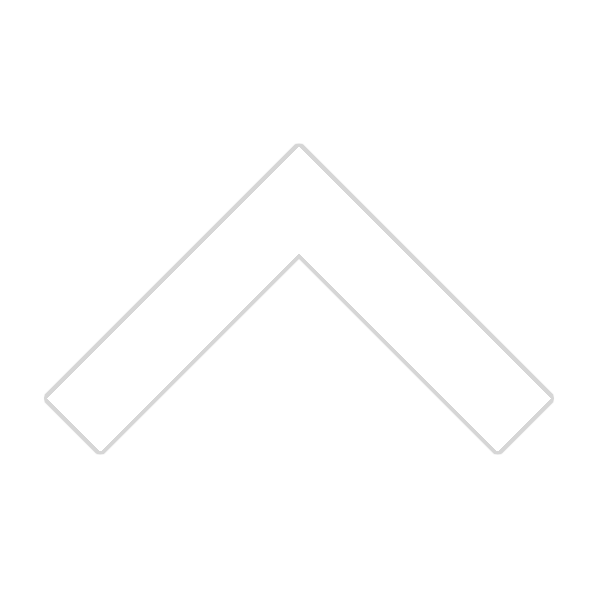
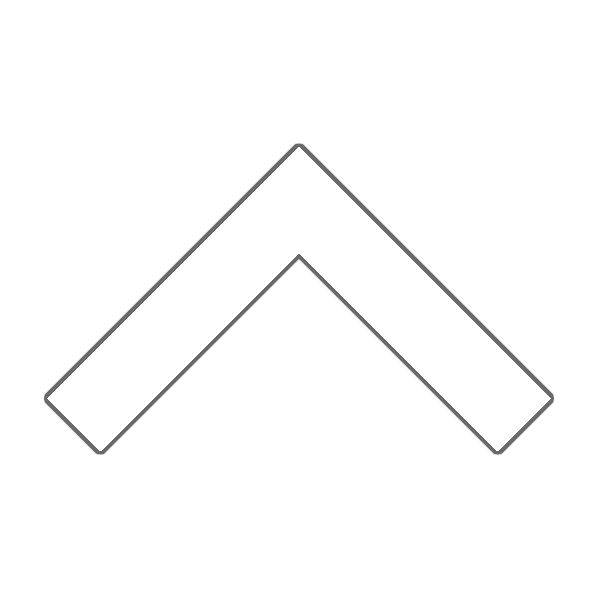
proper contrast for disabled upvote/downvote buttons

diff --git a/imports/ui/templates/components/decision/agora/thread/thread.js b/imports/ui/templates/components/decision/agora/thread/thread.js
@@ -54,13 +54,16 @@ function vote(event, comment, quantity) {
   if (!Meteor.user()) {
     displayLogin(event, document.getElementById('loggedUser'));
   } else if (comment.id !== voteEventId) {
-    voteEventId = comment.id;
-    if (comment.userVoted === false) {
-      voteComment(
-        Session.get('contract')._id,
-        comment.id,
-        quantity
-      );
+    if ((quantity > 0 && this.userUpvoted === false) ||
+    (quantity < 0 && this.userDownvoted === false)) {
+      voteEventId = comment.id;
+      if (comment.userVoted === false) {
+        voteComment(
+          Session.get('contract')._id,
+          comment.id,
+          quantity
+        );
+      }
     }
   }
 }
@@ -96,18 +99,22 @@ Template.thread.helpers({
   },
   upvote() {
     if (check(this.votes, true)) {
-      this.userVoted = true;
+      this.userUpvoted = true;
       return `${Router.path('home')}images/upvote-active.png`;
+    } else if (Meteor.user().profile.wallet.available <= 0) {
+      return `${Router.path('home')}images/upvote-disabled.png`;
     }
-    this.userVoted = false;
+    this.userUpvoted = false;
     return `${Router.path('home')}images/upvote.png`;
   },
   downvote() {
+    this.userDownvoted = false;
     if (check(this.votes, false)) {
-      this.userVoted = true;
+      this.userDownvoted = true;
       return `${Router.path('home')}images/downvote-active.png`;
+    } else if (Meteor.user().profile.wallet.available <= 0) {
+      return `${Router.path('home')}images/downvote-disabled.png`;
     }
-    this.userVoted = false;
     return `${Router.path('home')}images/downvote.png`;
   },
 });
